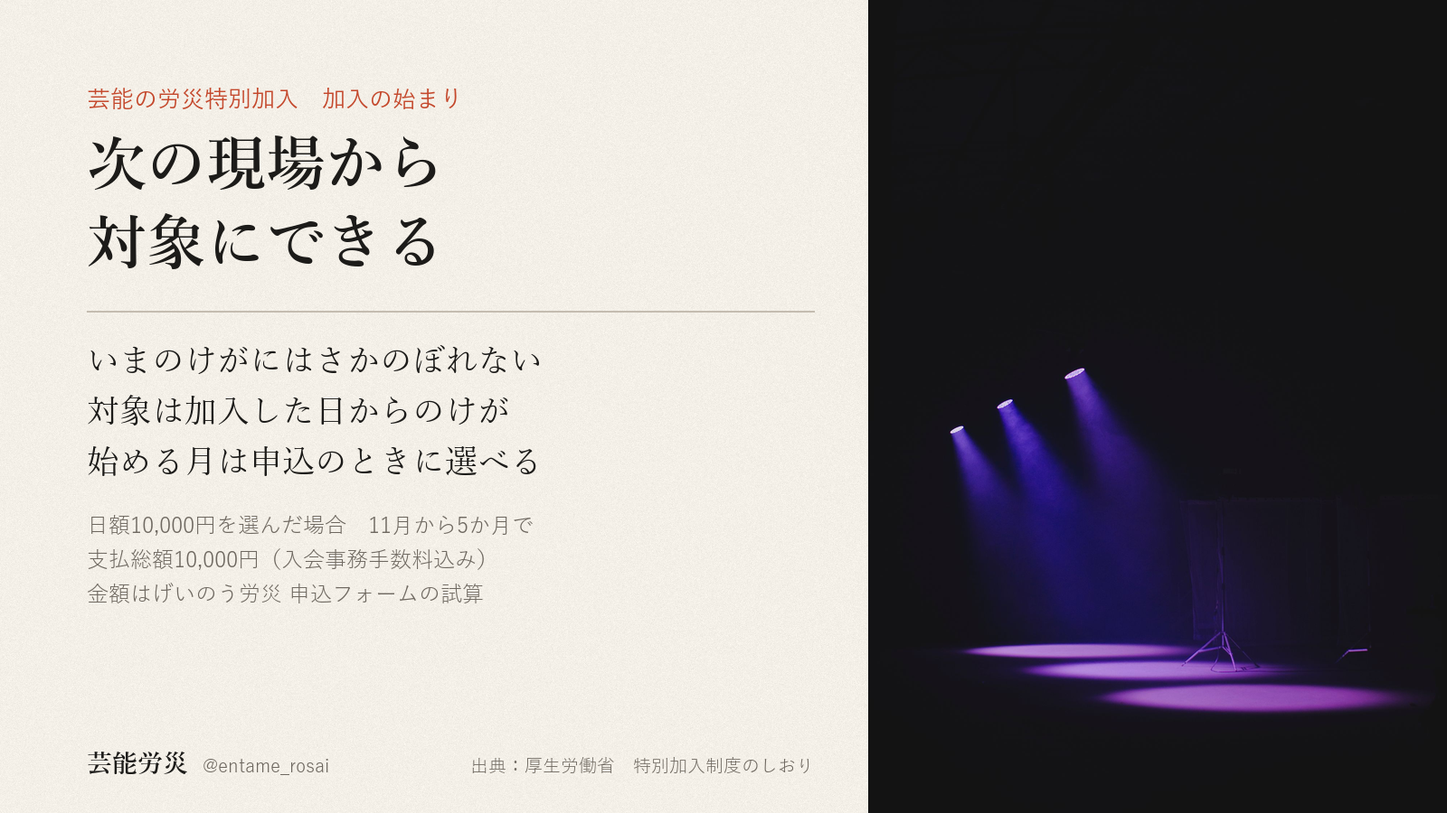
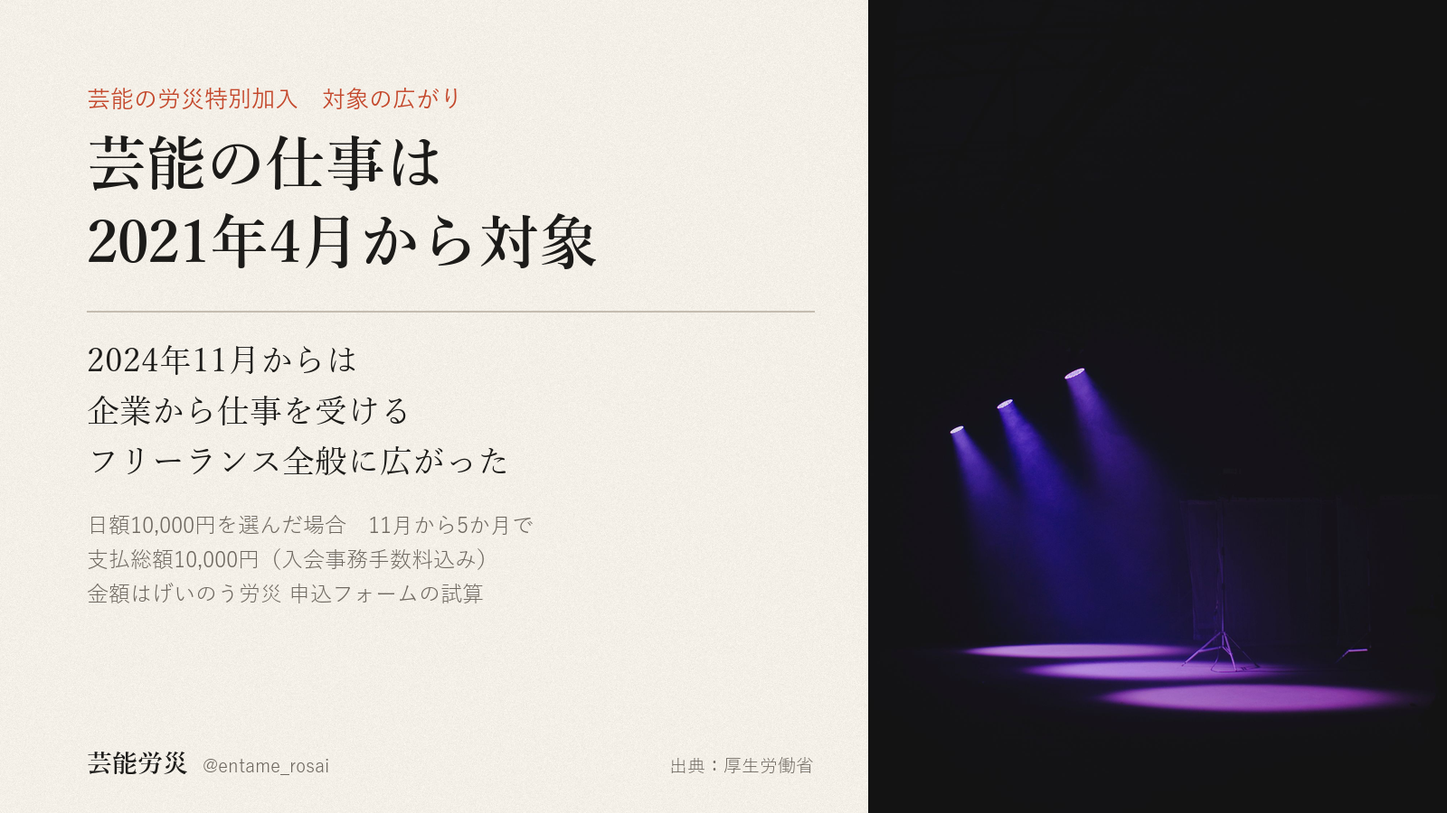
投稿デスク更新 2026-11-17（主題差し替え）

Changed region(s): [[0.0625, 0.0933, 0.4062, 0.3422], [0.0625, 0.4044, 0.375, 0.5911], [0.3125, 0.9333, 0.5625, 0.9644]]

diff --git a/index.html b/index.html
@@ -351,7 +351,7 @@ dialog img{width:100%;height:auto;border-radius:18px;display:block}
 <div class="toast" id="toast">コピーしました</div>
 <dialog id="zoom"><img alt=""></dialog>
 
-<script id="desk-data" type="application/json">{"account":"@entame_rosai","days":[{"date":"2026-11-17","label":"11月17日（火）　今日","items":[{"key":"ig","date":"2026-11-01","label":"Instagram（@entame_rosai）","account":"@entame_rosai","text":"労災の特別加入は、申込のときに「何月から入るか」「何か月入るか」「給付基礎日額をいくらにするか」の3つを自分で決めます。\n\n何月から入るかは、11月1日時点の申込フォームでは2026年11月から2027年3月までの中から選べます。何か月入るかは1か月から。公演や撮影の期間に合わせて決められます。\n\n給付基礎日額は、補償の基準になる1日あたりの額です。3,500円から25,000円までの16段階から、実際の収入とは切り離して自分で選びます。\n\n毎月の支払いは、日額10,000円を選んだ場合で月1,600円。内訳は保険料912円、組合費500円、手数料188円です。ほかに入会事務手数料2,000円が初月だけかかるので、初月の支払いは3,600円です。保険料912円の部分は社会保険料控除の対象です。\n\nひとつ大事なことがあります。さかのぼって入ることはできません。補償は申込で選んだ月から始まり、それより前のけがは対象になりません。現場の予定が決まったら、先に手続きを済ませておく形です。\n\n手続きはプロフィール欄のサイトからできます。迷う点があれば、コメントに書いてもらえれば調べます。\n\n私たちは東京労働局長の承認を受けた労災保険特別加入団体で、加入の受付もしている当事者です。そのうえで書いています。特別加入を扱う団体は、私たちのほかにもあります。\n\n※給付の可否・金額は個別の状況により労働基準監督署が判断します。\n※金額は、給付基礎日額10,000円を選んだ場合の例です。","chars":628,"lines":16,"hashtags":0,"limit":0,"status":"生成済・未投稿（本人の投稿許可あり。Chrome で instagram.com を開く操作が承認待ちのまま5分応答がなく送信されず。次に本人がいるときに投稿する）","url":"","images":[{"name":"01.png","path":"assets/2026-11-01/instagram/01.png"},{"name":"02.png","path":"assets/2026-11-01/instagram/02.png"},{"name":"03.png","path":"assets/2026-11-01/instagram/03.png"},{"name":"04.png","path":"assets/2026-11-01/instagram/04.png"},{"name":"05.png","path":"assets/2026-11-01/instagram/05.png"},{"name":"06.png","path":"assets/2026-11-01/instagram/06.png"},{"name":"07.png","path":"assets/2026-11-01/instagram/07.png"}],"alt":"--- 1枚目 ---\n暗い劇場の舞台の縁に腰かけ、赤い客席を見ている人の後ろ姿の写真。文字：フリーランスの労災保険。加入の手続き。申込で決めることと毎月の支払い。さかのぼって入ることはできないので、先に手続きの中身をまとめました。芸能労災 @entame_rosai 01/07\n\n--- 2枚目 ---\n上半分は夕方の住宅街の路上で、ブームマイクを掲げる録音係とカメラを担ぐ撮影係の後ろ姿の写真。下は生成り色の紙面。文字：申込で決めること1。何月から入るか。開始月は申込のときに選びます。11月1日時点では、2026年11月から2027年3月までの中から選べます。補償は、選んだ月から始まります。出典：当団体申込フォーム（11月1日時点）。02/07\n\n--- 3枚目 ---\n右に、屋外のカメラ機材とモニターを操作する手の縦長写真。左は紙面。文字：申込で決めること2。何か月入るか。加入期間は1か月から選べます。公演や撮影の期間に合わせて決められます。何月から何か月かを申込のときにあわせて決めます。出典：当団体申込フォーム（11月1日時点）。03/07\n\n--- 4枚目 ---\n文字だけの紙面。申込で決めること3。16段階。給付基礎日額を3,500円から25,000円まで。4列の一覧：3,500、4,000、5,000、6,000、7,000、8,000、9,000、10,000（朱色）、12,000、14,000、16,000、18,000、20,000、22,000、24,000、25,000。単位は円。補償の基準になる1日あたりの額で、実際の収入とは切り離して自分で選びます。朱色の10,000円を次のページの例に使います。出典：労災保険法（特別加入）。04/07\n\n--- 5枚目 ---\n文字だけの紙面。毎月の支払い。日額10,000円なら月1,600円。表：内訳／月額。保険料 912円。組合費 500円。手数料 188円。合計 1,600円。ほかに入会事務手数料2,000円が初月だけかかります。初月の支払いは3,600円です。支払いのうち保険料912円の部分は、社会保険料控除の対象です。出典：当団体申込フォーム（11月1日時点）。05/07\n\n--- 6枚目 ---\n上に、黒い服のスタッフ2人が大きな機材ケースを運ぶ後ろ姿の写真の帯。下は紙面。文字：大事なこと。さかのぼって入ることはできない。補償の開始：申込で選んだ月から。それより前のけが：対象外。現場の予定が決まったら：先に手続き。手続きはプロフィール欄のサイトから。迷う点があれば、コメントに書いてもらえれば調べます。出典：当団体申込フォーム（11月1日時点）。06/07\n\n--- 7枚目 ---\n舞台袖の衣装ラックと、パイプ椅子の上に開いた台本の写真を暗くした全面。文字：入る月と期間は自分で決められます。何月から何か月入るか、日額をいくらにするか。申込のときに自分で選べます。迷う点があれば、コメントに書いてもらえれば調べます。私たちは東京労働局長の承認を受けた労災保険特別加入団体で、加入の受付もしている当事者です。そのうえで書いています。特別加入を扱う団体は、私たちのほかにもあります。※給付の可否・金額は個別の状況により労働基準監督署が判断します。※金額は、給付基礎日額10,000円を選んだ場合の例です。芸能労災 @entame_rosai 07/07","check":{"errors":[],"warns":[]},"made":"2026-11-01","slot":"2026-11-17"},{"key":"x","date":"2026-11-08","label":"X（@entame_rosai）","account":"@entame_rosai","text":"労災の特別加入の保険料率は、芸能の仕事なら職種で変わりません。アクションでもダンスでも照明でも一律0.3%です。日額10,000円を選んだ場合、月の支払い1,600円と初月だけ入会事務手数料2,000円です。（厚労省の特別加入保険料率表・当団体申込フォーム）","chars":129,"lines":1,"hashtags":0,"limit":140,"status":"（台帳に記載なし）","url":"","images":[{"name":"x_image.png","path":"assets/2026-11-08/x_image/x_image.png"}],"alt":"右半分は青空を背景にした屋外ステージの照明トラスの写真。アルミのトラスに舞台用のスポットライトが5灯ほど吊られている。左半分は紙の色の面に文字。芸能の労災特別加入　保険料率／芸能の仕事なら 職種で変わらない／職種 保険料率／アクション 0.3%／ダンス 0.3%／照明・音響 0.3%／日額10,000円の場合　月の支払い1,600円／初月だけ入会事務手数料2,000円／芸能労災 @entame_rosai／出典：厚労省 料率表／当団体の申込フォーム","check":{"errors":[],"warns":["競合の調査由来かもしれない数字/語: 0.3%　… …職種で変わりません。アクションでもダンスでも照明でも一律0.3%です。日額10,000円を選んだ場合、月の支払い1,60…"]},"made":"2026-11-08","slot":"2026-11-17"}]},{"date":"2026-11-18","label":"11月18日（水）　投稿予定","items":[{"key":"x","date":"2026-11-09","label":"X（@entame_rosai）","account":"@entame_rosai","text":"労災の特別加入で仕事中のけがにより障がいが残ったとき、重い等級（1〜7級）の給付は一時金ではなく年金で、毎年続きます。日額10,000円を選んだ場合、1級で年313万円（日額の313日分）です。8〜14級は一時金です。（労災保険法 別表第1・当団体申込フォーム）","chars":131,"lines":1,"hashtags":0,"limit":140,"status":"（台帳に記載なし）","url":"","images":[{"name":"x_image.png","path":"assets/2026-11-09/x_image/x_image.png"}],"alt":"青い照明の暗い舞台に、木の椅子が4脚並んでいる写真。左の紙面に次の文字。芸能の労災特別加入　障がいが残ったとき。一時金ではなく年金で続く。重い等級（1〜7級）の給付は年金。日額10,000円を選んだ場合。1級で年313万円（日額の313日分）。8〜14級は一時金。芸能労災 @entame_rosai。出典：労災保険法 別表第1／当団体の申込フォーム","check":{"errors":[],"warns":[]},"made":"2026-11-09","slot":"2026-11-18"}]},{"date":"2026-11-19","label":"11月19日（木）　投稿予定","items":[{"key":"x","date":"2026-11-10","label":"X（@entame_rosai）","account":"@entame_rosai","text":"労災の特別加入は、現場へ向かう途中と帰り道のけがも通勤災害として対象です。芸能の仕事は適用から外れていません。ただし対象は合理的な経路に限られ、寄り道すると、その間とその後の移動は原則対象外です。給付は仕事中のけがと同じです。（労災保険法第7条・厚労省 特別加入制度のしおり）","chars":138,"lines":1,"hashtags":0,"limit":140,"status":"（台帳に記載なし）","url":"","images":[{"name":"x_image.png","path":"assets/2026-11-10/x_image/x_image.png"}],"alt":"ポスターが貼られた狭い廊下を、ギターケースを提げた長髪の人が奥へ歩いていく後ろ姿の写真。左の紙面に次の文字。芸能の労災特別加入　通勤災害。行き帰りのけがも対象。場面／労災の扱い。現場へ向かう途中／対象。現場からの帰り道／対象。経路外に寄り道／原則対象外。寄り道の間とその後の移動は原則対象外　給付は仕事中のけがと同じ。芸能労災 @entame_rosai。出典：労災保険法第7条／厚労省 特別加入のしおり","check":{"errors":[],"warns":[]},"made":"2026-11-10","slot":"2026-11-19"}]},{"date":"2026-11-20","label":"11月20日（金）　投稿予定","items":[{"key":"x","date":"2026-11-11","label":"X（@entame_rosai）","account":"@entame_rosai","text":"労災の特別加入で仕事中のけがを治療するとき、治療費に金額の上限も、決まった期間の上限もありません。症状が固定する（治療を続けても変わらない状態になる）まで療養給付の対象です。労災指定の医療機関なら窓口での支払いはありません。どの日額を選んでも同じです。（労災保険法第13条）","chars":137,"lines":1,"hashtags":0,"limit":140,"status":"（台帳に記載なし）","url":"","images":[{"name":"x_image.png","path":"assets/2026-11-11/x_image/x_image.png"}],"alt":"暗い稽古場の床に座り、足首にテーピングを巻いているダンサーの足元の写真。左の紙面に次の文字。芸能の労災特別加入　仕事中のけがの治療。治療費に上限なし。金額にも期間にも上限なし。症状が固定するまで療養給付の対象。労災指定の医療機関なら窓口での支払いなし。症状の固定＝治療を続けても変わらない状態。どの日額を選んでも同じ。芸能労災 @entame_rosai。出典：労災保険法第13条","check":{"errors":[],"warns":[]},"made":"2026-11-11","slot":"2026-11-20"}]},{"date":"2026-11-21","label":"11月21日（土）　投稿予定","items":[{"key":"x","date":"2026-11-12","label":"X（@entame_rosai）","account":"@entame_rosai","text":"「フリーランスだから、仕事中のけがは自己責任」。そう言われてきた芸能の現場に、別の選択肢があります。\n\n契約に基づいて働くフリーランスの芸能従事者は、2021年から国の労災保険に特別加入できます。治療や休業への補償がある、あなたの側の制度です。\n\n（出典：労災保険法第35条）\n\n――――――――――――――――――――\n字数：138字（改行4含む）／本文134字\n型：権利フレーム（型3・誤解修正の系統。矛先を「言われてきた言い方＝構造」に置く）\n導線：プロフィール欄（rousai.or.jp）。本文に外部リンクなし\n\n検証メモ\n- 140字以内：○（138）／10行以内：○（5行）\n- ハッシュタグ0・絵文字0・本文リンク0・出典を本文末に括弧書き：○\n- 「すべての芸能従事者」ではなく「フリーランスの芸能従事者」：○\n- 給付額・保険料の数字に触れていない＝前提併記/総額表記は不要：○\n- 補償（保障ではない）：○／厚生労働省認可など禁止表現なし：○\n- 締め方：「あなたの側の制度です」＝権利フレーム。禁止の締め（知っていましたか／しませんか／たった／怪我をしてからでは遅い）に該当なし：○\n- 受信者テスト：すでにけがをして自費で払った人が読んでも、矛先は「自己責任と言われてきた構造」に向き、本人を責めない。「別の選択肢／あなたの側」で迎える構成：○\n- 直近重複チェック：10/4〜11/1 の投稿は給付の中身・遡及不可・海外比較が中心。本案は対象認知（権利フレーム）で角度が異なる：○\n\n未了（投稿前に必要）\n- 図解/写真画像＋代替テキスト（現行の紙＋写真デザイン。tools/x_image.py の paper_ 系）\n- 投稿デスク（投稿サイト/build.py）への反映\n- 公開前に tools/check_post.py と daily-checker を通す\n- 投稿は本人の許可を得てから（自動投稿しない）","chars":799,"lines":26,"hashtags":0,"limit":140,"status":"（台帳に記載なし）","url":"","images":[{"name":"x_image.png","path":"assets/2026-11-12/x_image/x_image.png"}],"alt":"軍手をはめた両手が、舞台の黒い床に白いテープで立ち位置の目印を貼っている手元の写真。顔は写っていない。左の紙面に次の文字。芸能の労災特別加入　保険料と確定申告。912円。月の保険料は全額が社会保険料控除の対象。日額10,000円を選んだ場合　月の支払い1,600円のうちの保険料。ほかに初月のみ入会事務手数料2,000円。芸能労災 @entame_rosai。出典：国税庁 No.1130　金額は申込フォームの試算","check":{"errors":["禁止文字列: 知っていましたか（1件）　… …方：「あなたの側の制度です」＝権利フレーム。禁止の締め（知っていましたか／しませんか／たった／怪我をしてからでは遅い）に該当なし…","禁止表現: 保障（1件）　… …に触れていない＝前提併記/総額表記は不要：○ - 補償（保障ではない）：○／厚生労働省認可など禁止表現なし：○ - …","禁止表現: 厚生労働省認可（1件）　… …併記/総額表記は不要：○ - 補償（保障ではない）：○／厚生労働省認可など禁止表現なし：○ - 締め方：「あなたの側の制度です…","禁止表現: すべての芸能従事者（1件）　… …文字0・本文リンク0・出典を本文末に括弧書き：○ - 「すべての芸能従事者」ではなく「フリーランスの芸能従事者」：○ - 給付額・…","禁止表現: たった（1件）　… …権利フレーム。禁止の締め（知っていましたか／しませんか／たった／怪我をしてからでは遅い）に該当なし：○ - 受信者テス…","禁止表現: しませんか（1件）　… …制度です」＝権利フレーム。禁止の締め（知っていましたか／しませんか／たった／怪我をしてからでは遅い）に該当なし：○ - 受…","禁止表現: 怪我をしてからでは遅い（1件）　… …ーム。禁止の締め（知っていましたか／しませんか／たった／怪我をしてからでは遅い）に該当なし：○ - 受信者テスト：すでにけがをして自費…","絵文字: ○○○○○○○○○○","内部ラベルが本文に混ざっている: 型3","内部ラベルが本文に混ざっている: 検証メモ","内部ラベルが本文に混ざっている: 受信者テスト"],"warns":[]},"made":"2026-11-12","slot":"2026-11-21"}]},{"date":"2026-11-22","label":"11月22日（日）　投稿予定","items":[{"key":"x","date":"2026-11-13","label":"X（@entame_rosai）","account":"@entame_rosai","text":"労災の特別加入が対象にするのは、本番だけではありません。契約に基づく稽古やリハーサル中のけがも対象です。契約と結びつかない自主練習は、認められない場合があります。対象になるかは、労働基準監督署が個別に判断します。\n（労災保険法の特別加入・厚生労働省の通達）","chars":127,"lines":2,"hashtags":0,"limit":140,"status":"（台帳に記載なし）","url":"","images":[{"name":"x_image.png","path":"assets/2026-11-13/x_image/x_image.png"}],"alt":"夕方の光が差しこむ、だれもいない稽古場。壁に鏡とバー、時計がある写真。その左に文字。「芸能の労災特別加入　仕事中のけがの範囲　本番だけではありません」。表は、けがをした場面と扱い。本番：対象。契約に基づく稽古：対象。自主練習：対象外の場合あり。「契約に基づくリハーサルも対象です　対象になるかは労働基準監督署が個別に判断します」。出典：労災保険法の特別加入　厚生労働省の通達。芸能労災 @entame_rosai","check":{"errors":[],"warns":[]},"made":"2026-11-13","slot":"2026-11-22"}]},{"date":"2026-11-23","label":"11月23日（月）　投稿予定","items":[{"key":"x","date":"2026-11-14","label":"X（@entame_rosai）","account":"@entame_rosai","text":"労災の特別加入で受け取る給付に税金はかかりません。払った保険料は全額が社会保険料控除の対象です。日額10,000円を選んだ場合の支払いは月1,600円（保険料912円＋組合費500円＋手数料188円）と入会事務手数料2,000円。控除の対象は保険料です。\n（労災保険法・所得税法）","chars":139,"lines":2,"hashtags":0,"limit":140,"status":"（台帳に記載なし）","url":"","images":[{"name":"x_image.png","path":"assets/2026-11-14/x_image/x_image.png"}],"alt":"稽古場の木の机に、開いた台本と鉛筆が置かれている写真。奥に折りたたみ椅子と窓。左側の紙面に次の文字。「芸能の労災特別加入　税金の扱い」「給付に税金はかかりません」「受け取る給付は非課税　払った保険料は全額が社会保険料控除の対象」「日額10,000円を選んだ場合　月1,600円　保険料912円＋組合費500円＋手数料188円　ほかに入会事務手数料2,000円　控除の対象は保険料です」「芸能労災 @entame_rosai」「出典：労災保険法　所得税法」","check":{"errors":[],"warns":[]},"made":"2026-11-14","slot":"2026-11-23"}]},{"date":"2026-11-24","label":"11月24日（火）　投稿予定","items":[{"key":"x","date":"2026-11-15","label":"X（@entame_rosai）","account":"@entame_rosai","text":"労災の特別加入で、仕事中のけがにより働けない日は休業の給付があります。日額10,000円を選んだ場合、1日8,000円（休業補償給付60%＋特別支給金20%）。4日目からで、まったく働けない日が対象です。期間の上限はありません。（労災保険法・労災保険特別支給金規則）","chars":133,"lines":1,"hashtags":0,"limit":140,"status":"（台帳に記載なし）","url":"","images":[{"name":"x_image.png","path":"assets/2026-11-15/x_image/x_image.png"}],"alt":"左に生成りの紙、右に写真。写真は電球の並んだ鏡のある楽屋で、鏡の前に化粧筆の入った容器と椅子が置かれている。人は写っていない。\n画像の文字：「芸能の労災特別加入　休業の給付」「80%」「働けない日は1日につき 給付基礎日額の80%」「日額10,000円を選んだ場合　1日8,000円」「休業補償給付60%＋特別支給金20%」「4日目から　まったく働けない日が対象　期間の上限なし」「芸能労災 @entame_rosai」「出典：労災保険法　労災保険特別支給金規則」","check":{"errors":[],"warns":[]},"made":"2026-11-15","slot":"2026-11-24"}]},{"date":"2026-11-25","label":"11月25日（水）　投稿予定","items":[{"key":"x","date":"2026-11-16","label":"X（@entame_rosai）","account":"@entame_rosai","text":"労災の特別加入の申込では、加入を始める月と、加入する月数を自分で選びます。日額10,000円を選んだ場合、11月から5か月の加入で支払総額は10,000円です（月1,600円×5か月＋入会事務手数料2,000円）。（げいのう労災 申込フォームの試算）","chars":125,"lines":1,"hashtags":0,"limit":140,"status":"（台帳に記載なし）","url":"","images":[{"name":"x_image.png","path":"assets/2026-11-16/x_image/x_image.png"}],"alt":"左に生成りの紙、右に写真。写真は暗い空間に吊られた舞台用のスポットライトが4灯並んで点いているところで、光の中に薄く煙が漂っている。人は写っていない。\n画像の文字：「芸能の労災特別加入　申込のしくみ」「始める月と月数は 自分で選ぶ」「11月から5か月の場合　金額」「月の支払い5か月分　8,000円」「入会事務手数料　2,000円」「支払総額　10,000円」「日額10,000円を選んだ場合　月の支払いは1,600円」「内訳＝保険料912円＋組合費500円＋手数料188円」「芸能労災 @entame_rosai」「出典：げいのう労災　申込フォームの試算」","check":{"errors":[],"warns":[]},"made":"2026-11-16","slot":"2026-11-25"}]},{"date":"2026-11-26","label":"11月26日（木）　投稿予定","items":[{"key":"x","date":"2026-11-17","label":"X（@entame_rosai）","account":"@entame_rosai","text":"労災の特別加入は加入した日からのけがが対象です。いまのけがにはさかのぼれなくても、次の現場から対象にできます。日額10,000円を選んだ場合、11月から5か月で支払総額10,000円（入会事務手数料込み）。（厚生労働省 特別加入制度のしおり／げいのう労災 申込フォームの試算）","chars":138,"lines":1,"hashtags":0,"limit":140,"status":"（台帳に記載なし）","url":"","images":[{"name":"x_image.png","path":"assets/2026-11-17/x_image/x_image.png"}],"alt":"左は生成りの紙の地に文字、右は暗い舞台の床を紫のスポットライト3灯が照らす写真。文字：芸能の労災特別加入　加入の始まり。次の現場から対象にできる。いまのけがにはさかのぼれない。対象は加入した日からのけが。始める月は申込のときに選べる。日額10,000円を選んだ場合　11月から5か月で支払総額10,000円（入会事務手数料込み）。金額はげいのう労災 申込フォームの試算。出典：厚生労働省　特別加入制度のしおり。芸能労災 @entame_rosai","check":{"errors":[],"warns":[]},"made":"2026-11-17","slot":"2026-11-26"}]}],"todo":[{"due":"今日","who":"作業者","title":"X（@entame_rosai）の今日の投稿","detail":"画像1枚を添付 → 代替テキストを入れる → 本文を貼る、の順。代替テキストは直近の投稿で入っていません。X は投稿後に足せません。","cid":"c-2026-11-08-x"},{"due":"今日","who":"作業者","title":"Instagram を1本投稿（11/1（日）作成の分）","detail":"画像7枚をこの順で添付し、1枚ずつ代替テキストを入れる。未投稿は1本。前回の公開から1週間あけて1本ずつ。","cid":"c-2026-11-01-ig"},{"due":"未公開のまま","who":"矢部さん","title":"note の記事を公開（09/18作成）","detail":"このデスクには載っていません（note は矢部さんの手元の下書き）。公開するときは見出し画像を必ず設定。","cid":""},{"due":"未公開のまま","who":"矢部さん","title":"note の記事を公開（10/09作成）","detail":"このデスクには載っていません（note は矢部さんの手元の下書き）。公開するときは見出し画像を必ず設定。","cid":""},{"due":"投稿のたび","who":"作業者","title":"投稿URLと名前を、そのカードの欄に保存","detail":"記録が集まらないと、何が出たかを後から確かめられません。","cid":""}],"builtAt":"2026-11-17 07:02","today":"2026-11-17","followers":{"date":"10-13","x":5,"ig":21,"note":0},"hero":"assets/hero.jpg","endpoint":"https://script.google.com/macros/s/AKfycbxhxM75PszpPOX_HDJ4yuBmQSqu1b7CXq2sbCxlqTZ_TyF8hROH2MyKnYNU11avb8UQCA/exec"}</script>
+<script id="desk-data" type="application/json">{"account":"@entame_rosai","days":[{"date":"2026-11-17","label":"11月17日（火）　今日","items":[{"key":"ig","date":"2026-11-01","label":"Instagram（@entame_rosai）","account":"@entame_rosai","text":"労災の特別加入は、申込のときに「何月から入るか」「何か月入るか」「給付基礎日額をいくらにするか」の3つを自分で決めます。\n\n何月から入るかは、11月1日時点の申込フォームでは2026年11月から2027年3月までの中から選べます。何か月入るかは1か月から。公演や撮影の期間に合わせて決められます。\n\n給付基礎日額は、補償の基準になる1日あたりの額です。3,500円から25,000円までの16段階から、実際の収入とは切り離して自分で選びます。\n\n毎月の支払いは、日額10,000円を選んだ場合で月1,600円。内訳は保険料912円、組合費500円、手数料188円です。ほかに入会事務手数料2,000円が初月だけかかるので、初月の支払いは3,600円です。保険料912円の部分は社会保険料控除の対象です。\n\nひとつ大事なことがあります。さかのぼって入ることはできません。補償は申込で選んだ月から始まり、それより前のけがは対象になりません。現場の予定が決まったら、先に手続きを済ませておく形です。\n\n手続きはプロフィール欄のサイトからできます。迷う点があれば、コメントに書いてもらえれば調べます。\n\n私たちは東京労働局長の承認を受けた労災保険特別加入団体で、加入の受付もしている当事者です。そのうえで書いています。特別加入を扱う団体は、私たちのほかにもあります。\n\n※給付の可否・金額は個別の状況により労働基準監督署が判断します。\n※金額は、給付基礎日額10,000円を選んだ場合の例です。","chars":628,"lines":16,"hashtags":0,"limit":0,"status":"生成済・未投稿（本人の投稿許可あり。Chrome で instagram.com を開く操作が承認待ちのまま5分応答がなく送信されず。次に本人がいるときに投稿する）","url":"","images":[{"name":"01.png","path":"assets/2026-11-01/instagram/01.png"},{"name":"02.png","path":"assets/2026-11-01/instagram/02.png"},{"name":"03.png","path":"assets/2026-11-01/instagram/03.png"},{"name":"04.png","path":"assets/2026-11-01/instagram/04.png"},{"name":"05.png","path":"assets/2026-11-01/instagram/05.png"},{"name":"06.png","path":"assets/2026-11-01/instagram/06.png"},{"name":"07.png","path":"assets/2026-11-01/instagram/07.png"}],"alt":"--- 1枚目 ---\n暗い劇場の舞台の縁に腰かけ、赤い客席を見ている人の後ろ姿の写真。文字：フリーランスの労災保険。加入の手続き。申込で決めることと毎月の支払い。さかのぼって入ることはできないので、先に手続きの中身をまとめました。芸能労災 @entame_rosai 01/07\n\n--- 2枚目 ---\n上半分は夕方の住宅街の路上で、ブームマイクを掲げる録音係とカメラを担ぐ撮影係の後ろ姿の写真。下は生成り色の紙面。文字：申込で決めること1。何月から入るか。開始月は申込のときに選びます。11月1日時点では、2026年11月から2027年3月までの中から選べます。補償は、選んだ月から始まります。出典：当団体申込フォーム（11月1日時点）。02/07\n\n--- 3枚目 ---\n右に、屋外のカメラ機材とモニターを操作する手の縦長写真。左は紙面。文字：申込で決めること2。何か月入るか。加入期間は1か月から選べます。公演や撮影の期間に合わせて決められます。何月から何か月かを申込のときにあわせて決めます。出典：当団体申込フォーム（11月1日時点）。03/07\n\n--- 4枚目 ---\n文字だけの紙面。申込で決めること3。16段階。給付基礎日額を3,500円から25,000円まで。4列の一覧：3,500、4,000、5,000、6,000、7,000、8,000、9,000、10,000（朱色）、12,000、14,000、16,000、18,000、20,000、22,000、24,000、25,000。単位は円。補償の基準になる1日あたりの額で、実際の収入とは切り離して自分で選びます。朱色の10,000円を次のページの例に使います。出典：労災保険法（特別加入）。04/07\n\n--- 5枚目 ---\n文字だけの紙面。毎月の支払い。日額10,000円なら月1,600円。表：内訳／月額。保険料 912円。組合費 500円。手数料 188円。合計 1,600円。ほかに入会事務手数料2,000円が初月だけかかります。初月の支払いは3,600円です。支払いのうち保険料912円の部分は、社会保険料控除の対象です。出典：当団体申込フォーム（11月1日時点）。05/07\n\n--- 6枚目 ---\n上に、黒い服のスタッフ2人が大きな機材ケースを運ぶ後ろ姿の写真の帯。下は紙面。文字：大事なこと。さかのぼって入ることはできない。補償の開始：申込で選んだ月から。それより前のけが：対象外。現場の予定が決まったら：先に手続き。手続きはプロフィール欄のサイトから。迷う点があれば、コメントに書いてもらえれば調べます。出典：当団体申込フォーム（11月1日時点）。06/07\n\n--- 7枚目 ---\n舞台袖の衣装ラックと、パイプ椅子の上に開いた台本の写真を暗くした全面。文字：入る月と期間は自分で決められます。何月から何か月入るか、日額をいくらにするか。申込のときに自分で選べます。迷う点があれば、コメントに書いてもらえれば調べます。私たちは東京労働局長の承認を受けた労災保険特別加入団体で、加入の受付もしている当事者です。そのうえで書いています。特別加入を扱う団体は、私たちのほかにもあります。※給付の可否・金額は個別の状況により労働基準監督署が判断します。※金額は、給付基礎日額10,000円を選んだ場合の例です。芸能労災 @entame_rosai 07/07","check":{"errors":[],"warns":[]},"made":"2026-11-01","slot":"2026-11-17"},{"key":"x","date":"2026-11-08","label":"X（@entame_rosai）","account":"@entame_rosai","text":"労災の特別加入の保険料率は、芸能の仕事なら職種で変わりません。アクションでもダンスでも照明でも一律0.3%です。日額10,000円を選んだ場合、月の支払い1,600円と初月だけ入会事務手数料2,000円です。（厚労省の特別加入保険料率表・当団体申込フォーム）","chars":129,"lines":1,"hashtags":0,"limit":140,"status":"（台帳に記載なし）","url":"","images":[{"name":"x_image.png","path":"assets/2026-11-08/x_image/x_image.png"}],"alt":"右半分は青空を背景にした屋外ステージの照明トラスの写真。アルミのトラスに舞台用のスポットライトが5灯ほど吊られている。左半分は紙の色の面に文字。芸能の労災特別加入　保険料率／芸能の仕事なら 職種で変わらない／職種 保険料率／アクション 0.3%／ダンス 0.3%／照明・音響 0.3%／日額10,000円の場合　月の支払い1,600円／初月だけ入会事務手数料2,000円／芸能労災 @entame_rosai／出典：厚労省 料率表／当団体の申込フォーム","check":{"errors":[],"warns":["競合の調査由来かもしれない数字/語: 0.3%　… …職種で変わりません。アクションでもダンスでも照明でも一律0.3%です。日額10,000円を選んだ場合、月の支払い1,60…"]},"made":"2026-11-08","slot":"2026-11-17"}]},{"date":"2026-11-18","label":"11月18日（水）　投稿予定","items":[{"key":"x","date":"2026-11-09","label":"X（@entame_rosai）","account":"@entame_rosai","text":"労災の特別加入で仕事中のけがにより障がいが残ったとき、重い等級（1〜7級）の給付は一時金ではなく年金で、毎年続きます。日額10,000円を選んだ場合、1級で年313万円（日額の313日分）です。8〜14級は一時金です。（労災保険法 別表第1・当団体申込フォーム）","chars":131,"lines":1,"hashtags":0,"limit":140,"status":"（台帳に記載なし）","url":"","images":[{"name":"x_image.png","path":"assets/2026-11-09/x_image/x_image.png"}],"alt":"青い照明の暗い舞台に、木の椅子が4脚並んでいる写真。左の紙面に次の文字。芸能の労災特別加入　障がいが残ったとき。一時金ではなく年金で続く。重い等級（1〜7級）の給付は年金。日額10,000円を選んだ場合。1級で年313万円（日額の313日分）。8〜14級は一時金。芸能労災 @entame_rosai。出典：労災保険法 別表第1／当団体の申込フォーム","check":{"errors":[],"warns":[]},"made":"2026-11-09","slot":"2026-11-18"}]},{"date":"2026-11-19","label":"11月19日（木）　投稿予定","items":[{"key":"x","date":"2026-11-10","label":"X（@entame_rosai）","account":"@entame_rosai","text":"労災の特別加入は、現場へ向かう途中と帰り道のけがも通勤災害として対象です。芸能の仕事は適用から外れていません。ただし対象は合理的な経路に限られ、寄り道すると、その間とその後の移動は原則対象外です。給付は仕事中のけがと同じです。（労災保険法第7条・厚労省 特別加入制度のしおり）","chars":138,"lines":1,"hashtags":0,"limit":140,"status":"（台帳に記載なし）","url":"","images":[{"name":"x_image.png","path":"assets/2026-11-10/x_image/x_image.png"}],"alt":"ポスターが貼られた狭い廊下を、ギターケースを提げた長髪の人が奥へ歩いていく後ろ姿の写真。左の紙面に次の文字。芸能の労災特別加入　通勤災害。行き帰りのけがも対象。場面／労災の扱い。現場へ向かう途中／対象。現場からの帰り道／対象。経路外に寄り道／原則対象外。寄り道の間とその後の移動は原則対象外　給付は仕事中のけがと同じ。芸能労災 @entame_rosai。出典：労災保険法第7条／厚労省 特別加入のしおり","check":{"errors":[],"warns":[]},"made":"2026-11-10","slot":"2026-11-19"}]},{"date":"2026-11-20","label":"11月20日（金）　投稿予定","items":[{"key":"x","date":"2026-11-11","label":"X（@entame_rosai）","account":"@entame_rosai","text":"労災の特別加入で仕事中のけがを治療するとき、治療費に金額の上限も、決まった期間の上限もありません。症状が固定する（治療を続けても変わらない状態になる）まで療養給付の対象です。労災指定の医療機関なら窓口での支払いはありません。どの日額を選んでも同じです。（労災保険法第13条）","chars":137,"lines":1,"hashtags":0,"limit":140,"status":"（台帳に記載なし）","url":"","images":[{"name":"x_image.png","path":"assets/2026-11-11/x_image/x_image.png"}],"alt":"暗い稽古場の床に座り、足首にテーピングを巻いているダンサーの足元の写真。左の紙面に次の文字。芸能の労災特別加入　仕事中のけがの治療。治療費に上限なし。金額にも期間にも上限なし。症状が固定するまで療養給付の対象。労災指定の医療機関なら窓口での支払いなし。症状の固定＝治療を続けても変わらない状態。どの日額を選んでも同じ。芸能労災 @entame_rosai。出典：労災保険法第13条","check":{"errors":[],"warns":[]},"made":"2026-11-11","slot":"2026-11-20"}]},{"date":"2026-11-21","label":"11月21日（土）　投稿予定","items":[{"key":"x","date":"2026-11-12","label":"X（@entame_rosai）","account":"@entame_rosai","text":"「フリーランスだから、仕事中のけがは自己責任」。そう言われてきた芸能の現場に、別の選択肢があります。\n\n契約に基づいて働くフリーランスの芸能従事者は、2021年から国の労災保険に特別加入できます。治療や休業への補償がある、あなたの側の制度です。\n\n（出典：労災保険法第35条）\n\n――――――――――――――――――――\n字数：138字（改行4含む）／本文134字\n型：権利フレーム（型3・誤解修正の系統。矛先を「言われてきた言い方＝構造」に置く）\n導線：プロフィール欄（rousai.or.jp）。本文に外部リンクなし\n\n検証メモ\n- 140字以内：○（138）／10行以内：○（5行）\n- ハッシュタグ0・絵文字0・本文リンク0・出典を本文末に括弧書き：○\n- 「すべての芸能従事者」ではなく「フリーランスの芸能従事者」：○\n- 給付額・保険料の数字に触れていない＝前提併記/総額表記は不要：○\n- 補償（保障ではない）：○／厚生労働省認可など禁止表現なし：○\n- 締め方：「あなたの側の制度です」＝権利フレーム。禁止の締め（知っていましたか／しませんか／たった／怪我をしてからでは遅い）に該当なし：○\n- 受信者テスト：すでにけがをして自費で払った人が読んでも、矛先は「自己責任と言われてきた構造」に向き、本人を責めない。「別の選択肢／あなたの側」で迎える構成：○\n- 直近重複チェック：10/4〜11/1 の投稿は給付の中身・遡及不可・海外比較が中心。本案は対象認知（権利フレーム）で角度が異なる：○\n\n未了（投稿前に必要）\n- 図解/写真画像＋代替テキスト（現行の紙＋写真デザイン。tools/x_image.py の paper_ 系）\n- 投稿デスク（投稿サイト/build.py）への反映\n- 公開前に tools/check_post.py と daily-checker を通す\n- 投稿は本人の許可を得てから（自動投稿しない）","chars":799,"lines":26,"hashtags":0,"limit":140,"status":"（台帳に記載なし）","url":"","images":[{"name":"x_image.png","path":"assets/2026-11-12/x_image/x_image.png"}],"alt":"軍手をはめた両手が、舞台の黒い床に白いテープで立ち位置の目印を貼っている手元の写真。顔は写っていない。左の紙面に次の文字。芸能の労災特別加入　保険料と確定申告。912円。月の保険料は全額が社会保険料控除の対象。日額10,000円を選んだ場合　月の支払い1,600円のうちの保険料。ほかに初月のみ入会事務手数料2,000円。芸能労災 @entame_rosai。出典：国税庁 No.1130　金額は申込フォームの試算","check":{"errors":["禁止文字列: 知っていましたか（1件）　… …方：「あなたの側の制度です」＝権利フレーム。禁止の締め（知っていましたか／しませんか／たった／怪我をしてからでは遅い）に該当なし…","禁止表現: 保障（1件）　… …に触れていない＝前提併記/総額表記は不要：○ - 補償（保障ではない）：○／厚生労働省認可など禁止表現なし：○ - …","禁止表現: 厚生労働省認可（1件）　… …併記/総額表記は不要：○ - 補償（保障ではない）：○／厚生労働省認可など禁止表現なし：○ - 締め方：「あなたの側の制度です…","禁止表現: すべての芸能従事者（1件）　… …文字0・本文リンク0・出典を本文末に括弧書き：○ - 「すべての芸能従事者」ではなく「フリーランスの芸能従事者」：○ - 給付額・…","禁止表現: たった（1件）　… …権利フレーム。禁止の締め（知っていましたか／しませんか／たった／怪我をしてからでは遅い）に該当なし：○ - 受信者テス…","禁止表現: しませんか（1件）　… …制度です」＝権利フレーム。禁止の締め（知っていましたか／しませんか／たった／怪我をしてからでは遅い）に該当なし：○ - 受…","禁止表現: 怪我をしてからでは遅い（1件）　… …ーム。禁止の締め（知っていましたか／しませんか／たった／怪我をしてからでは遅い）に該当なし：○ - 受信者テスト：すでにけがをして自費…","絵文字: ○○○○○○○○○○","内部ラベルが本文に混ざっている: 型3","内部ラベルが本文に混ざっている: 検証メモ","内部ラベルが本文に混ざっている: 受信者テスト"],"warns":[]},"made":"2026-11-12","slot":"2026-11-21"}]},{"date":"2026-11-22","label":"11月22日（日）　投稿予定","items":[{"key":"x","date":"2026-11-13","label":"X（@entame_rosai）","account":"@entame_rosai","text":"労災の特別加入が対象にするのは、本番だけではありません。契約に基づく稽古やリハーサル中のけがも対象です。契約と結びつかない自主練習は、認められない場合があります。対象になるかは、労働基準監督署が個別に判断します。\n（労災保険法の特別加入・厚生労働省の通達）","chars":127,"lines":2,"hashtags":0,"limit":140,"status":"（台帳に記載なし）","url":"","images":[{"name":"x_image.png","path":"assets/2026-11-13/x_image/x_image.png"}],"alt":"夕方の光が差しこむ、だれもいない稽古場。壁に鏡とバー、時計がある写真。その左に文字。「芸能の労災特別加入　仕事中のけがの範囲　本番だけではありません」。表は、けがをした場面と扱い。本番：対象。契約に基づく稽古：対象。自主練習：対象外の場合あり。「契約に基づくリハーサルも対象です　対象になるかは労働基準監督署が個別に判断します」。出典：労災保険法の特別加入　厚生労働省の通達。芸能労災 @entame_rosai","check":{"errors":[],"warns":[]},"made":"2026-11-13","slot":"2026-11-22"}]},{"date":"2026-11-23","label":"11月23日（月）　投稿予定","items":[{"key":"x","date":"2026-11-14","label":"X（@entame_rosai）","account":"@entame_rosai","text":"労災の特別加入で受け取る給付に税金はかかりません。払った保険料は全額が社会保険料控除の対象です。日額10,000円を選んだ場合の支払いは月1,600円（保険料912円＋組合費500円＋手数料188円）と入会事務手数料2,000円。控除の対象は保険料です。\n（労災保険法・所得税法）","chars":139,"lines":2,"hashtags":0,"limit":140,"status":"（台帳に記載なし）","url":"","images":[{"name":"x_image.png","path":"assets/2026-11-14/x_image/x_image.png"}],"alt":"稽古場の木の机に、開いた台本と鉛筆が置かれている写真。奥に折りたたみ椅子と窓。左側の紙面に次の文字。「芸能の労災特別加入　税金の扱い」「給付に税金はかかりません」「受け取る給付は非課税　払った保険料は全額が社会保険料控除の対象」「日額10,000円を選んだ場合　月1,600円　保険料912円＋組合費500円＋手数料188円　ほかに入会事務手数料2,000円　控除の対象は保険料です」「芸能労災 @entame_rosai」「出典：労災保険法　所得税法」","check":{"errors":[],"warns":[]},"made":"2026-11-14","slot":"2026-11-23"}]},{"date":"2026-11-24","label":"11月24日（火）　投稿予定","items":[{"key":"x","date":"2026-11-15","label":"X（@entame_rosai）","account":"@entame_rosai","text":"労災の特別加入で、仕事中のけがにより働けない日は休業の給付があります。日額10,000円を選んだ場合、1日8,000円（休業補償給付60%＋特別支給金20%）。4日目からで、まったく働けない日が対象です。期間の上限はありません。（労災保険法・労災保険特別支給金規則）","chars":133,"lines":1,"hashtags":0,"limit":140,"status":"（台帳に記載なし）","url":"","images":[{"name":"x_image.png","path":"assets/2026-11-15/x_image/x_image.png"}],"alt":"左に生成りの紙、右に写真。写真は電球の並んだ鏡のある楽屋で、鏡の前に化粧筆の入った容器と椅子が置かれている。人は写っていない。\n画像の文字：「芸能の労災特別加入　休業の給付」「80%」「働けない日は1日につき 給付基礎日額の80%」「日額10,000円を選んだ場合　1日8,000円」「休業補償給付60%＋特別支給金20%」「4日目から　まったく働けない日が対象　期間の上限なし」「芸能労災 @entame_rosai」「出典：労災保険法　労災保険特別支給金規則」","check":{"errors":[],"warns":[]},"made":"2026-11-15","slot":"2026-11-24"}]},{"date":"2026-11-25","label":"11月25日（水）　投稿予定","items":[{"key":"x","date":"2026-11-16","label":"X（@entame_rosai）","account":"@entame_rosai","text":"労災の特別加入の申込では、加入を始める月と、加入する月数を自分で選びます。日額10,000円を選んだ場合、11月から5か月の加入で支払総額は10,000円です（月1,600円×5か月＋入会事務手数料2,000円）。（げいのう労災 申込フォームの試算）","chars":125,"lines":1,"hashtags":0,"limit":140,"status":"（台帳に記載なし）","url":"","images":[{"name":"x_image.png","path":"assets/2026-11-16/x_image/x_image.png"}],"alt":"左に生成りの紙、右に写真。写真は暗い空間に吊られた舞台用のスポットライトが4灯並んで点いているところで、光の中に薄く煙が漂っている。人は写っていない。\n画像の文字：「芸能の労災特別加入　申込のしくみ」「始める月と月数は 自分で選ぶ」「11月から5か月の場合　金額」「月の支払い5か月分　8,000円」「入会事務手数料　2,000円」「支払総額　10,000円」「日額10,000円を選んだ場合　月の支払いは1,600円」「内訳＝保険料912円＋組合費500円＋手数料188円」「芸能労災 @entame_rosai」「出典：げいのう労災　申込フォームの試算」","check":{"errors":[],"warns":[]},"made":"2026-11-16","slot":"2026-11-25"}]},{"date":"2026-11-26","label":"11月26日（木）　投稿予定","items":[{"key":"x","date":"2026-11-17","label":"X（@entame_rosai）","account":"@entame_rosai","text":"労災の特別加入は2024年11月から、企業から仕事を受けるフリーランス全般に広がりました。芸能の仕事は2021年4月から対象です。日額10,000円を選んだ場合、11月から5か月で支払総額10,000円（入会事務手数料込み）。（厚生労働省／げいのう労災 申込フォームの試算）","chars":137,"lines":1,"hashtags":0,"limit":140,"status":"（台帳に記載なし）","url":"","images":[{"name":"x_image.png","path":"assets/2026-11-17/x_image/x_image.png"}],"alt":"左は生成りの紙の地に文字、右は暗い舞台の床を紫のスポットライト3灯が照らす写真。文字：芸能の労災特別加入　対象の広がり。芸能の仕事は2021年4月から対象。2024年11月からは企業から仕事を受けるフリーランス全般に広がった。日額10,000円を選んだ場合　11月から5か月で支払総額10,000円（入会事務手数料込み）。金額はげいのう労災 申込フォームの試算。出典：厚生労働省。芸能労災 @entame_rosai","check":{"errors":[],"warns":[]},"made":"2026-11-17","slot":"2026-11-26"}]}],"todo":[{"due":"今日","who":"作業者","title":"X（@entame_rosai）の今日の投稿","detail":"画像1枚を添付 → 代替テキストを入れる → 本文を貼る、の順。代替テキストは直近の投稿で入っていません。X は投稿後に足せません。","cid":"c-2026-11-08-x"},{"due":"今日","who":"作業者","title":"Instagram を1本投稿（11/1（日）作成の分）","detail":"画像7枚をこの順で添付し、1枚ずつ代替テキストを入れる。未投稿は1本。前回の公開から1週間あけて1本ずつ。","cid":"c-2026-11-01-ig"},{"due":"未公開のまま","who":"矢部さん","title":"note の記事を公開（09/18作成）","detail":"このデスクには載っていません（note は矢部さんの手元の下書き）。公開するときは見出し画像を必ず設定。","cid":""},{"due":"未公開のまま","who":"矢部さん","title":"note の記事を公開（10/09作成）","detail":"このデスクには載っていません（note は矢部さんの手元の下書き）。公開するときは見出し画像を必ず設定。","cid":""},{"due":"投稿のたび","who":"作業者","title":"投稿URLと名前を、そのカードの欄に保存","detail":"記録が集まらないと、何が出たかを後から確かめられません。","cid":""}],"builtAt":"2026-11-17 07:04","today":"2026-11-17","followers":{"date":"10-13","x":5,"ig":21,"note":0},"hero":"assets/hero.jpg","endpoint":"https://script.google.com/macros/s/AKfycbxhxM75PszpPOX_HDJ4yuBmQSqu1b7CXq2sbCxlqTZ_TyF8hROH2MyKnYNU11avb8UQCA/exec"}</script>
 <script>
 (function(){
   var DATA = JSON.parse(document.getElementById('desk-data').textContent);
